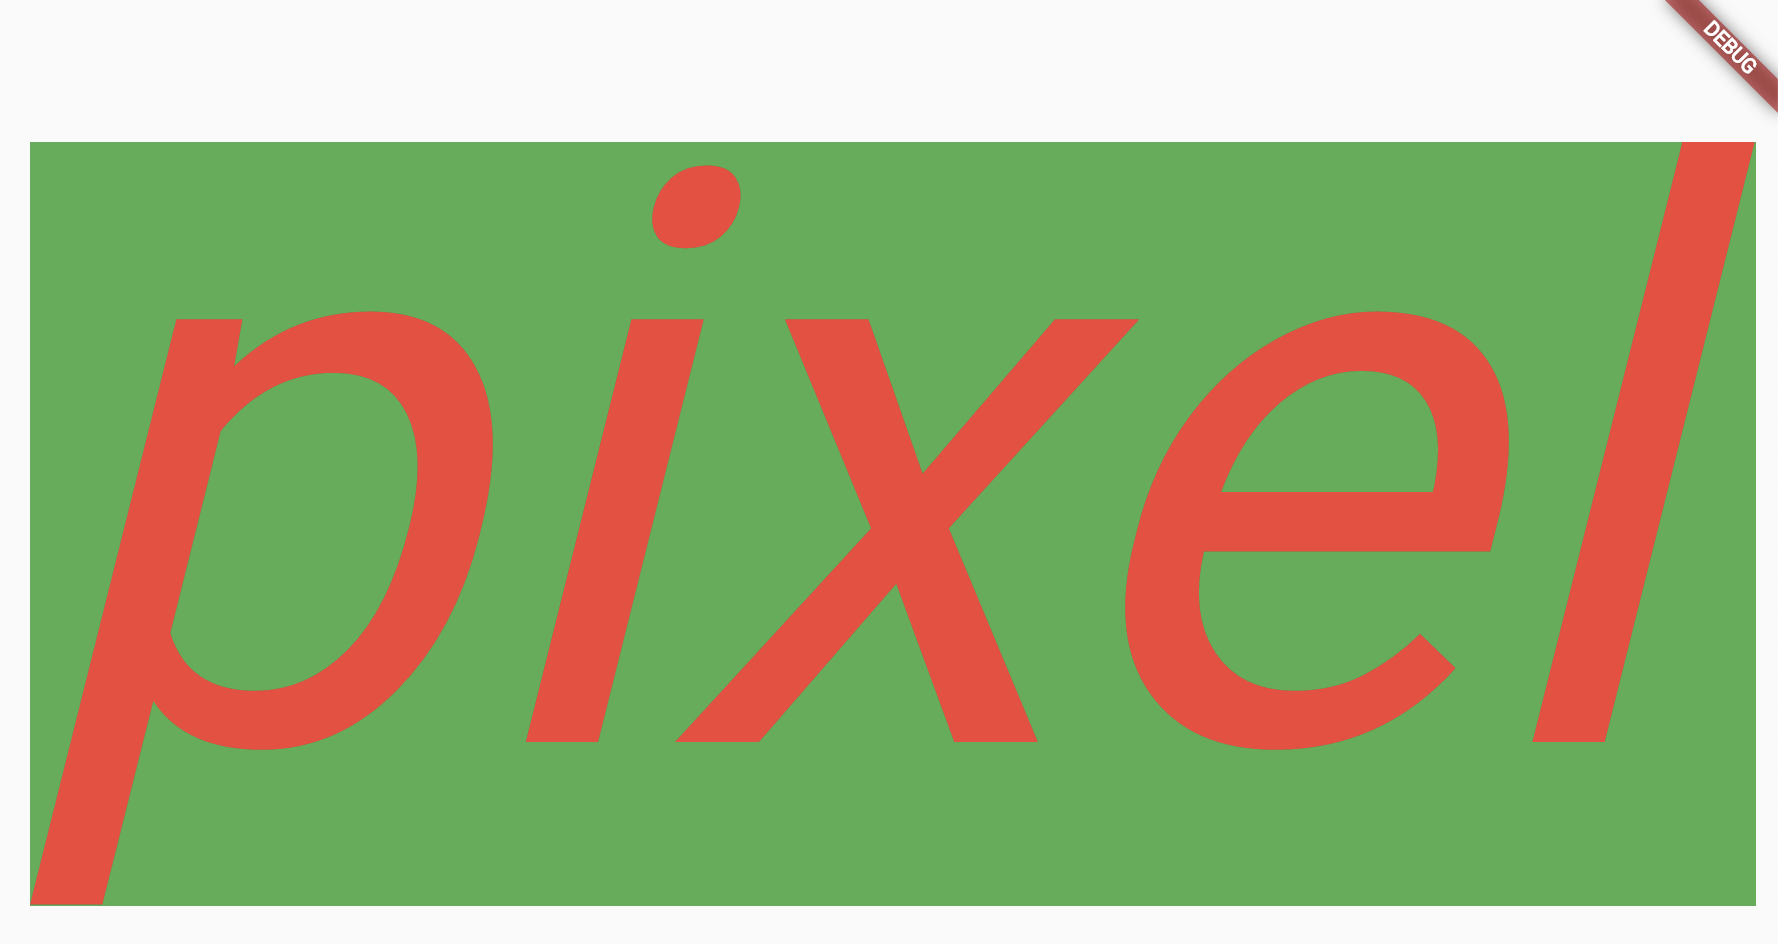
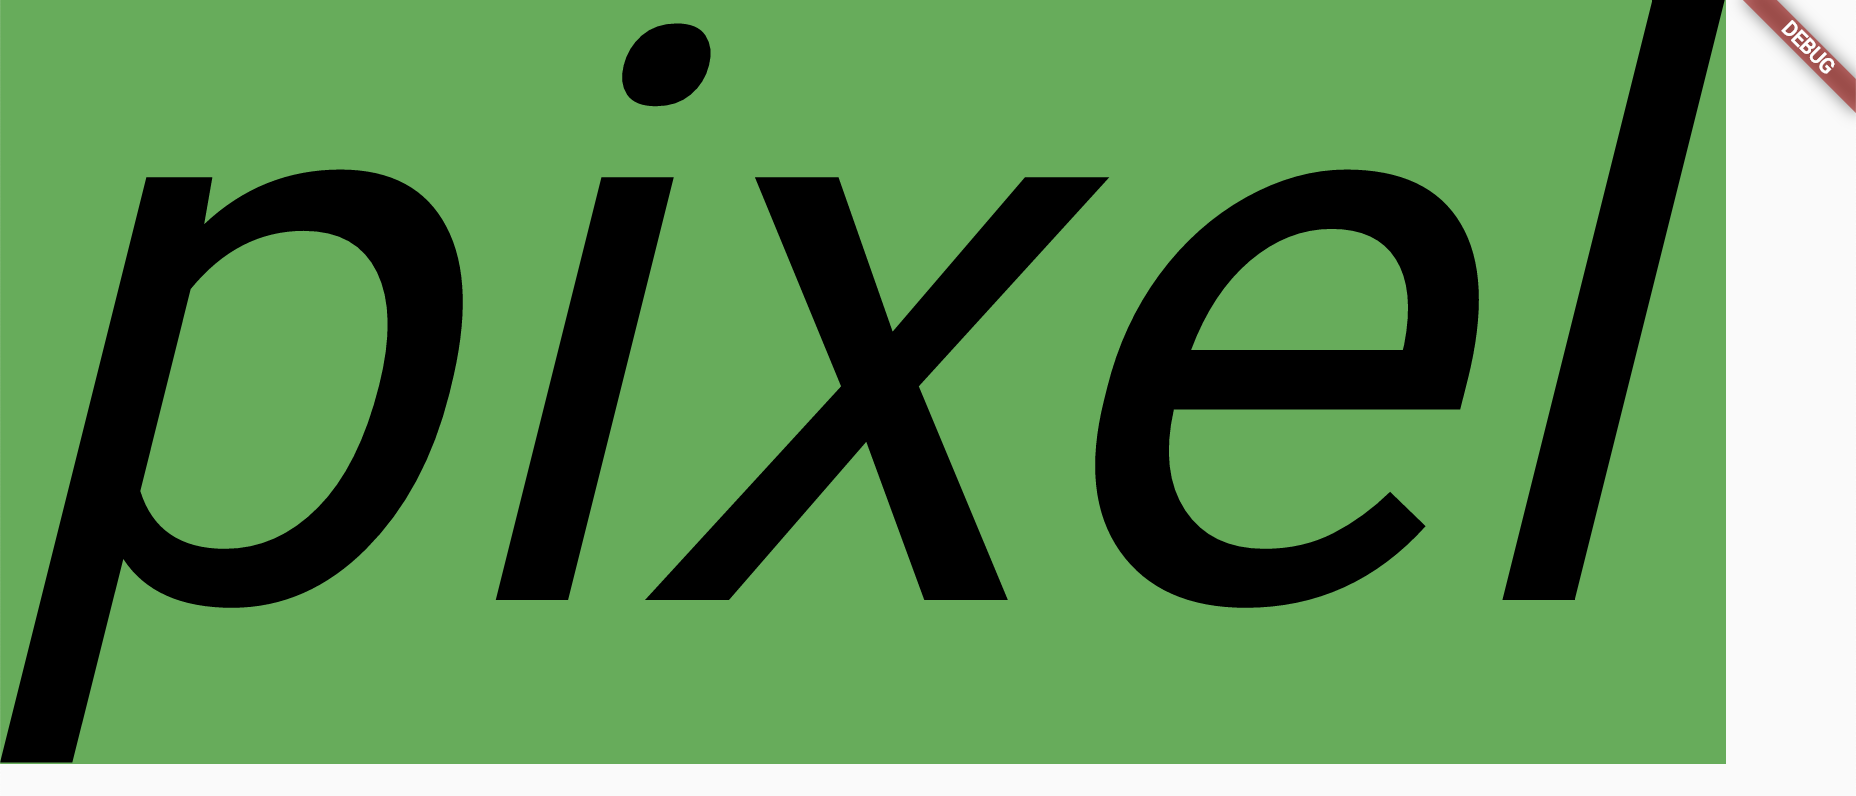
something changed

diff --git a/get_text_bounds.dart b/get_text_bounds.dart
@@ -31,31 +31,32 @@ class MyWidget extends StatelessWidget {
         fontStyle: FontStyle.italic,
       ),
     );
-    return Padding(
-      padding: const EdgeInsets.only(left: 8),
-      child: FutureBuilder(
-        future: getTextBounds(text: textSpan),
-        builder: (context, snapshot) {
-          if (snapshot.connectionState == ConnectionState.done) {
-            final bounds = snapshot.data;
-            if (bounds != null) {
-              return Stack(
+    return FutureBuilder(
+      future: getTextBounds(text: textSpan),
+      builder: (context, snapshot) {
+        if (snapshot.connectionState == ConnectionState.done) {
+          final bounds = snapshot.data;
+          if (bounds != null) {
+            return Container(
+              color: Colors.green,
+              width: bounds.width,
+              height: bounds.height,
+              child: Stack(
                 children: [
-                  Container(
-                    transform:
-                        Matrix4.translationValues(bounds.left, bounds.top, 0),
-                    width: bounds.width,
-                    height: bounds.height,
-                    color: Colors.green,
+                  Positioned(
+                    top: -bounds.top,
+                    left: -bounds.left,
+                    child: RichText(
+                      text: textSpan,
+                    ),
                   ),
-                  const Text.rich(textSpan),
                 ],
-              );
-            }
+              ),
+            );
           }
-          return Container();
-        },
-      ),
+        }
+        return Container();
+      },
     );
   }
 }
